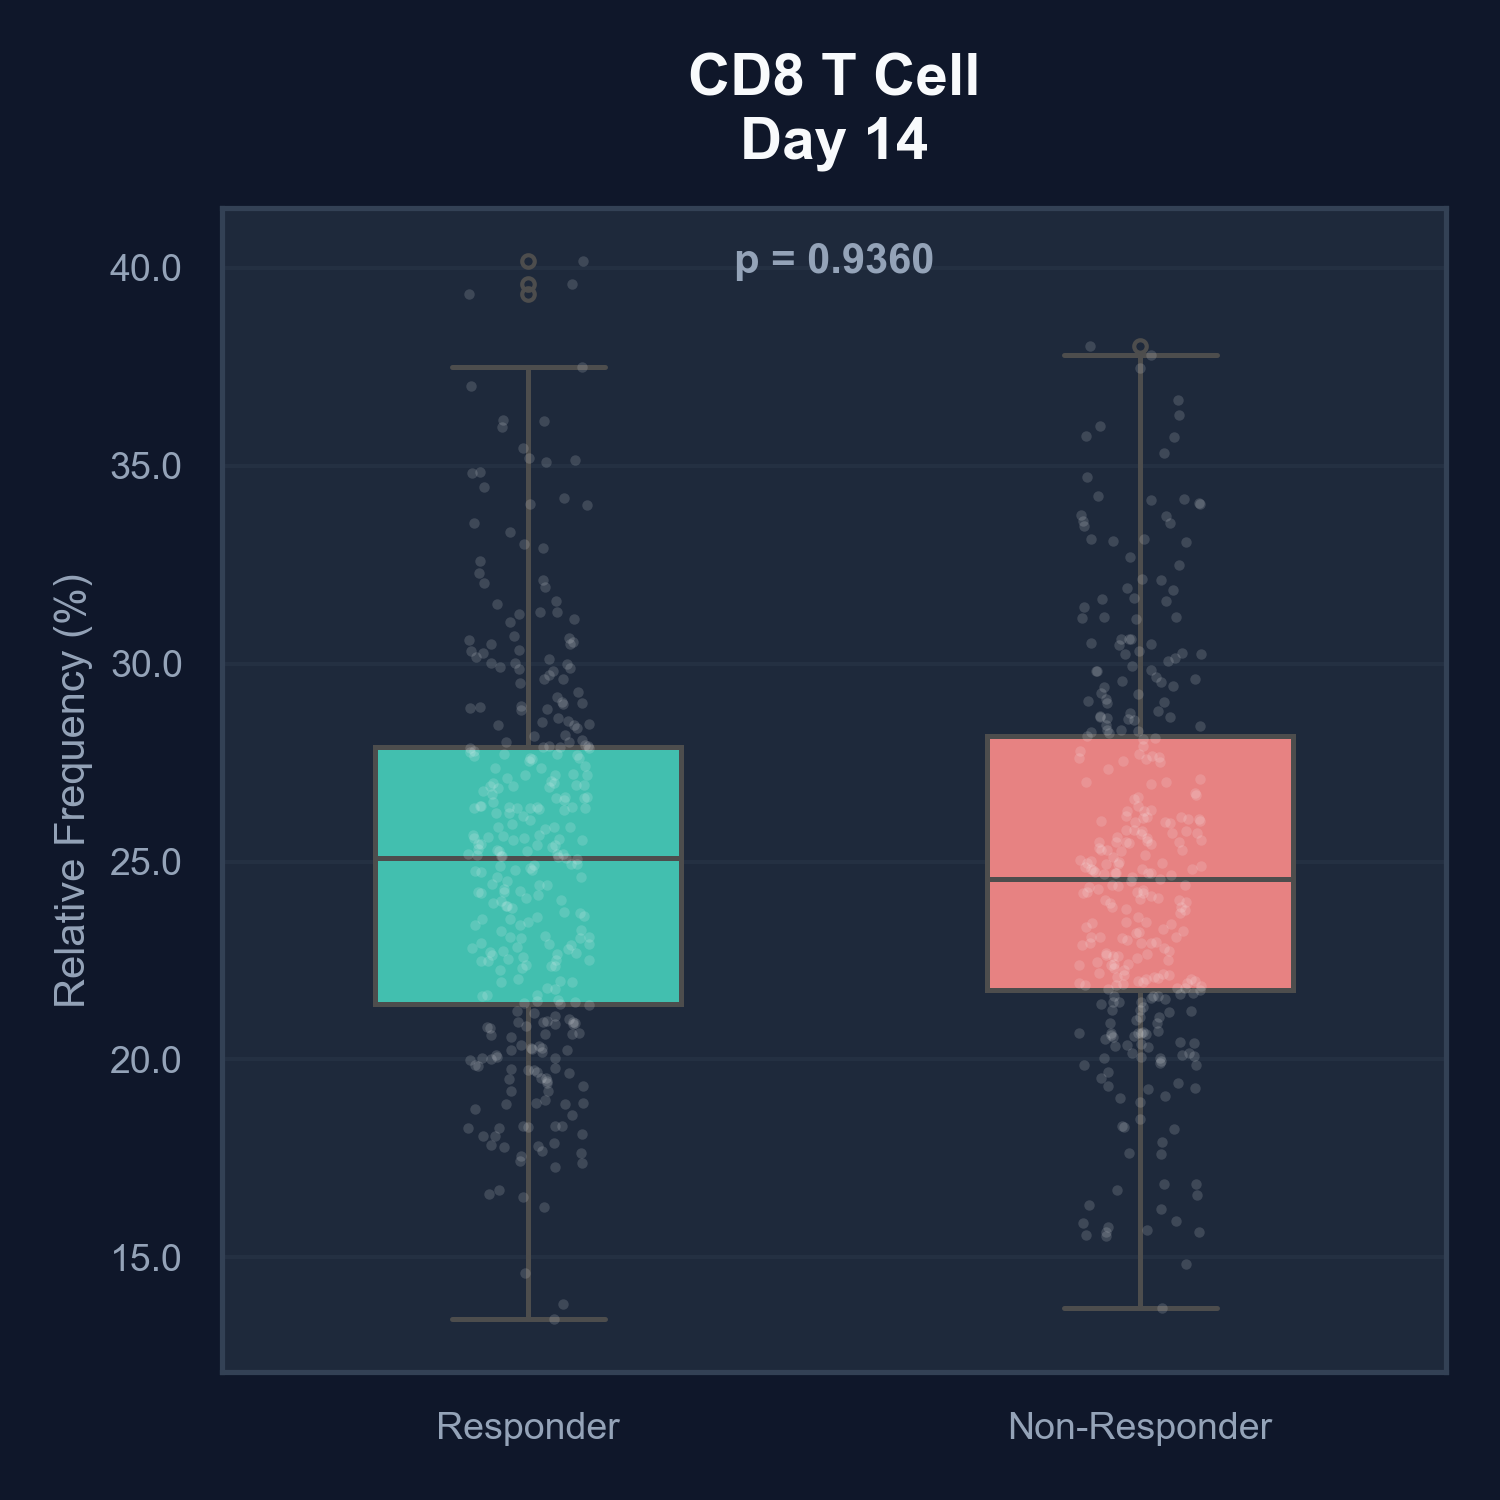
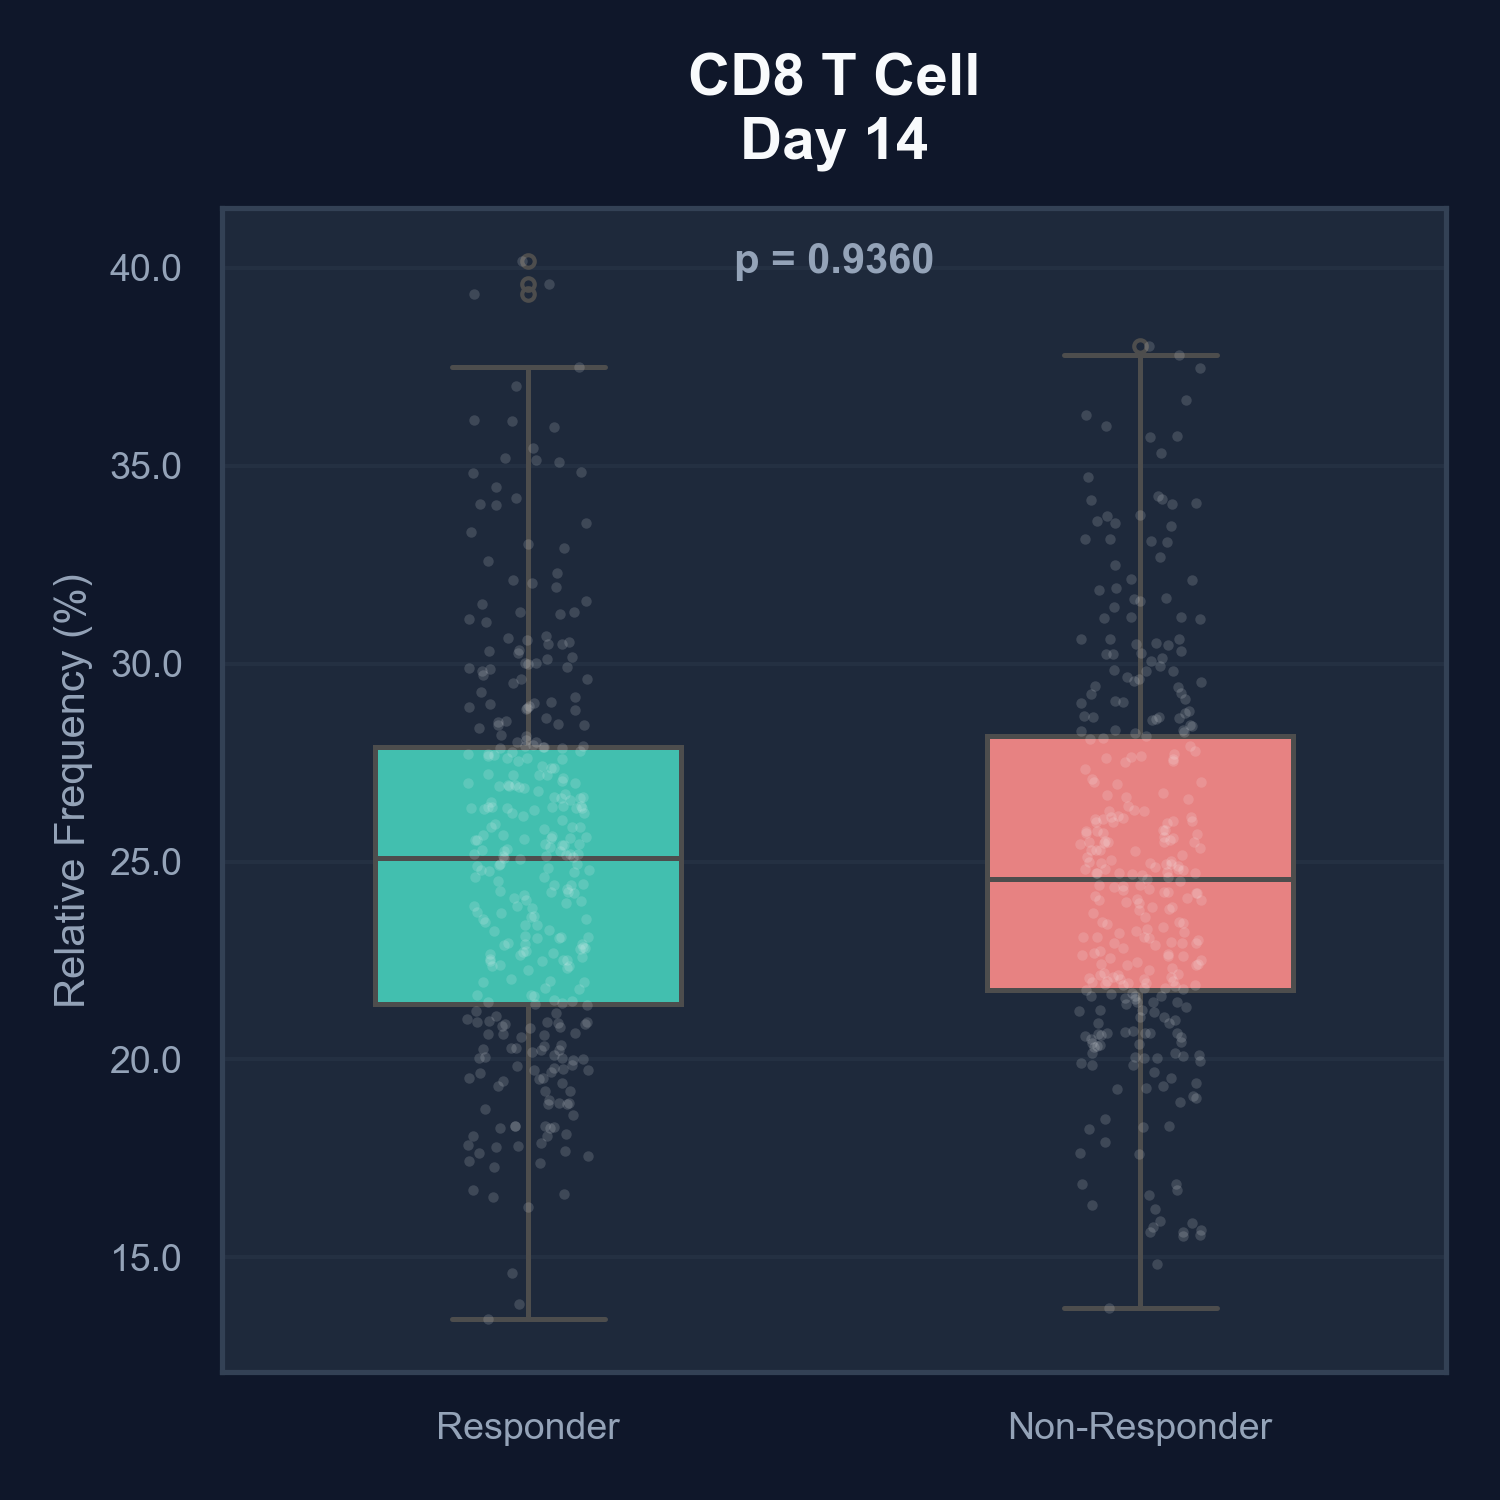
fix: increase font sizes for p-values, tick labels, and legend

diff --git a/pipeline.py b/pipeline.py
@@ -296,10 +296,10 @@ def _render_combined_boxplot(df: pd.DataFrame, raw_p: dict, bh_p: dict,
         ax.text(
             0.5, 0.97, f"BH p = {bh_pval:.4f}{sig_marker}",
             transform=ax.transAxes, ha="center", va="top",
-            fontsize=11, color=sig_color, fontweight="bold",
+            fontsize=13, color=sig_color, fontweight="bold",
         )
 
-        ax.tick_params(colors=COLORS["text_secondary"], labelsize=10)
+        ax.tick_params(colors=COLORS["text_secondary"], labelsize=12)
         ax.yaxis.set_major_formatter(mticker.FormatStrFormatter("%.1f"))
         for spine in ax.spines.values():
             spine.set_color(COLORS["grid"])
